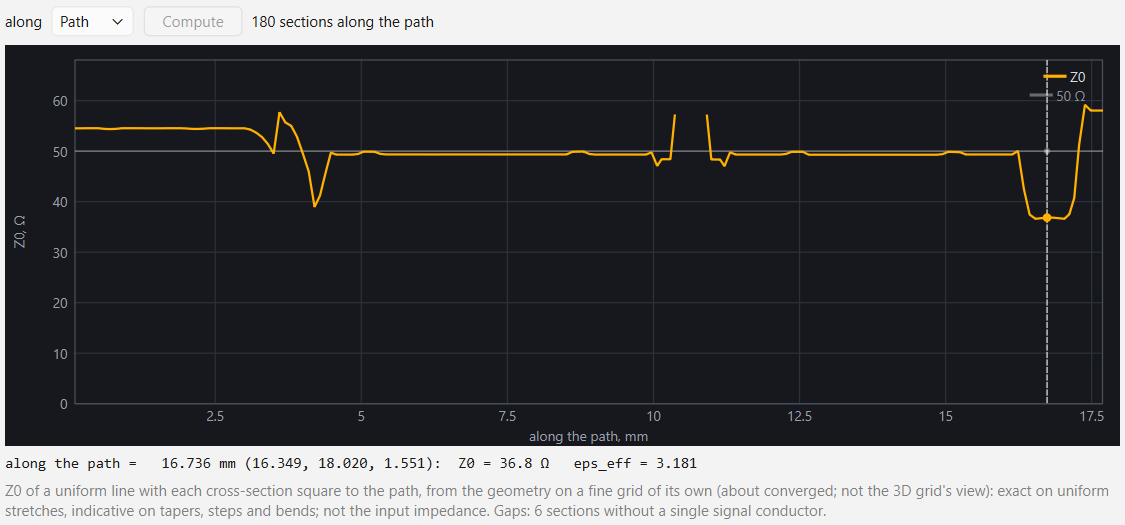
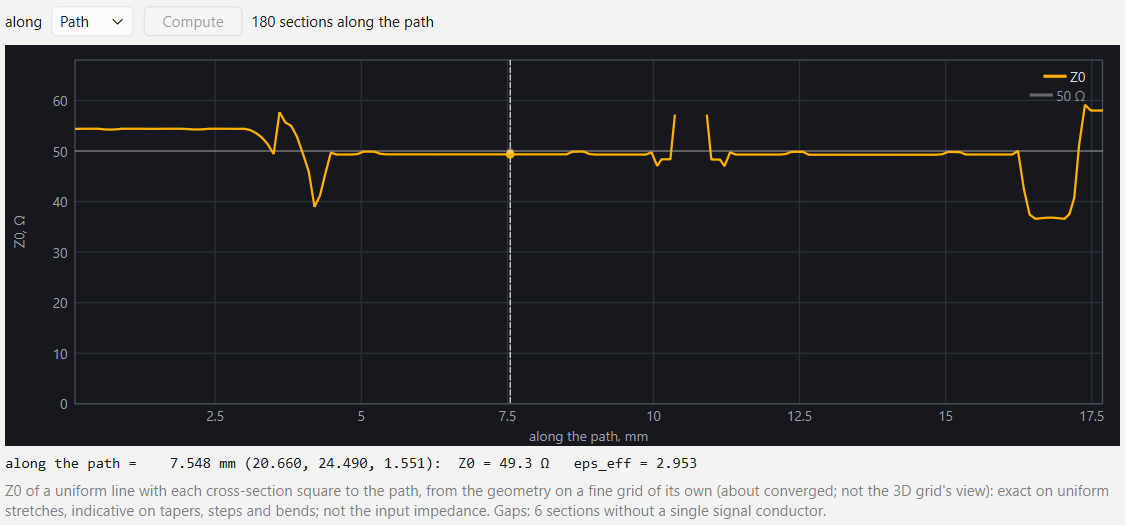
customcst: Z0 path sections span the model's height; section window in 3D
- The path's window is cut only across the path and along it, no longer in
  height: cut there, an SMA's coax above the board lost its shield's top
  (59 Ohm for 49) and the answer moved with the plane's height.
  check_path_profile: the plane high above the board reads the same Z0.
- The section window (half_width either side, the model's height) is drawn
  in 3D from two points on, at the path's start, and follows the profile
  window's marker.
- A note under Z0 path: half width >= half the widest part (a connector:
  its legs); 2 mm on an SMA launch read 54.5 Ohm for 49.2.
- Docs: the justswitch screenshot with the window.

diff --git a/customcst/view/geometry_view.py b/customcst/view/geometry_view.py
@@ -41,8 +41,11 @@
 #   - a double click on a point deletes it;
 #   - Shift + click near a segment inserts a point there;
 #   - on_path_changed(points) is called after every edit (m, in-plane).
-# set_path_section marks the cross-section the profile window reads: a
-# green bar across the path. In path mode the path's plane is shown over
+# The section window (set_path_section): what one cross-section of the
+# path profile takes in, a translucent green rectangle square to the path,
+# half_width to either side of it and over the model's whole height. Shown
+# with two points or more: at the path's start, or at the section under
+# the profile window's marker. In path mode the path's plane is shown over
 # the model's extent, translucent blue like the reference planes (through
 # the bodies: on a copper face it would z-fight).
 
@@ -95,7 +98,8 @@ PICK_COLORS = ((1.0, 0.85, 0.1, 1.0), (0.2, 0.9, 1.0, 1.0))   # points A, B; bla
 PICK_LINE_COLOR = (1.0, 1.0, 1.0, 0.9)
 PATH_COLOR = (1.0, 0.45, 0.1, 1.0)                # the Z0 path: orange
 PATH_START_COLOR = (1.0, 0.9, 0.2, 1.0)           # its first point
-PATH_SECTION_COLOR = (0.3, 1.0, 0.4, 1.0)         # the profile's section across it
+PATH_SECTION_COLOR = (0.3, 1.0, 0.4, 1.0)         # the section window's edge
+PATH_SECTION_FILL = (0.3, 1.0, 0.4, 0.15)         # and its fill
 PATH_PLANE_FILL = (0.05, 0.15, 0.7, 0.25)         # the path's plane in path mode
 PATH_PLANE_EDGE = REFERENCE_EDGE
 PATH_PX = 8                 # a click this close to a path point or segment hits it
@@ -448,7 +452,12 @@ class GeometryView:
         self._press = None
 
         self.path_line = scene.visuals.Line(color=PATH_COLOR, width=2.0, parent=self.view.scene)
-        self.path_section = scene.visuals.Line(color=PATH_SECTION_COLOR, width=3.0, parent=self.view.scene)
+        self.path_section = scene.visuals.Line(color=PATH_SECTION_COLOR, width=2.0, connect="segments",
+                                               parent=self.view.scene)
+        self.path_section_fill = scene.visuals.Mesh(color=PATH_SECTION_FILL, parent=self.view.scene)
+        self.path_section_fill.set_gl_state("translucent", depth_test=False, cull_face=False)
+        self.path_section_fill.order = 21
+        self.path_section_fill.visible = False
         self.path_markers = scene.visuals.Markers(parent=self.view.scene)
         self.path_plane = scene.visuals.Mesh(color=PATH_PLANE_FILL, parent=self.view.scene)
         self.path_plane_edge = scene.visuals.Line(color=PATH_PLANE_EDGE, width=2.0, connect="segments",
@@ -465,6 +474,8 @@ class GeometryView:
         self._path = None               # (axis, plane coordinate mm, (n, 2) in-plane points mm)
         self._path_shown = False        # drawn outside path mode too
         self._path_drag = None          # index of the point being moved
+        self._path_half_width = 0.0     # mm
+        self._path_section = None       # (center mm, across unit) of the profile's section, None: the start
         self.on_path_changed = None     # callback((n, 2) points m)
 
         self._init_headlight()
@@ -591,15 +602,16 @@ class GeometryView:
     # Z0 path
     # =====================================================
 
-    def set_path(self, axis, at, points, shown=False):
+    def set_path(self, axis, at, points, shown=False, half_width=0.0):
         """
         The Z0 path: in the plane normal to `axis` (0..2) at `at` (m), (n, 2)
         in-plane points (m, the other two axes in order). shown: drawn
-        outside path mode too.
+        outside path mode too. half_width (m): the section window's.
         """
         self._path = (int(axis), float(at) / SCENE_UNIT,
                       np.asarray(points, dtype=float).reshape(-1, 2) / SCENE_UNIT)
         self._path_shown = bool(shown)
+        self._path_half_width = float(half_width) / SCENE_UNIT
         self._draw_path()
 
     def set_path_shown(self, on):
@@ -613,15 +625,11 @@ class GeometryView:
         self.view.camera.interactive = True
         self._draw_path()
 
-    def set_path_section(self, center=None, across=None, half_width=0.0):
-        """The profile's cross-section: a bar from center - half_width * across to + (m); None hides it."""
-        if center is None:
-            self.path_section.visible = False
-        else:
-            ends = (np.asarray(center) + np.outer([-half_width, half_width], across)) / SCENE_UNIT
-            self.path_section.set_data(pos=ends.astype(np.float32))
-            self.path_section.visible = True
-        self.canvas.update()
+    def set_path_section(self, center=None, across=None):
+        """The section window at the profile's section: its point on the path (m), the unit across; None: the start."""
+        self._path_section = None if center is None else (np.asarray(center, dtype=float) / SCENE_UNIT,
+                                                          np.asarray(across, dtype=float))
+        self._draw_path()
 
     def path_points(self):
         """(n, 2) in-plane points of the path (m)."""
@@ -646,10 +654,35 @@ class GeometryView:
         if self.path_markers.visible:
             colors = np.array([PATH_START_COLOR] + [PATH_COLOR] * (len(points) - 1))
             self.path_markers.set_data(world, size=9, edge_width=1.5, face_color=colors, edge_color=(0, 0, 0, 1))
-        if not shown:
-            self.path_section.visible = False
+        self._draw_path_section(shown and len(points) >= 2)
         self._draw_path_plane()
         self.canvas.update()
+
+    def _draw_path_section(self, on):
+        """The section window: half_width across the path either side, the model's height."""
+        on = on and self._path_half_width > 0
+        self.path_section.visible = self.path_section_fill.visible = on
+        if not on:
+            return
+        axis, _, points = self._path
+        if self._path_section is not None:
+            center, across = self._path_section
+        else:
+            ends = self._path_world(points[:2])
+            along = ends[1] - ends[0]
+            normal = np.zeros(3)
+            normal[axis] = 1.0
+            across = np.cross(normal, along) / max(np.linalg.norm(along), 1e-12)
+            center = ends[0]
+        lo, hi = self._bounds
+        corners = np.empty((4, 3))
+        for n, (side, height) in enumerate(((-1, lo), (1, lo), (1, hi), (-1, hi))):
+            corners[n] = center + side * self._path_half_width * across
+            corners[n, axis] = height[axis]
+        corners = corners.astype(np.float32)
+        self.path_section_fill.set_data(vertices=corners, faces=np.array([[0, 1, 2], [0, 2, 3]], np.uint32),
+                                        color=PATH_SECTION_FILL)
+        self.path_section.set_data(pos=corners[[0, 1, 1, 2, 2, 3, 3, 0]])
 
     def _draw_path_plane(self):
         """In path mode: the path's plane over the model's extent (5 % margin)."""

diff --git a/customcst/solver/path_profile.py b/customcst/solver/path_profile.py
@@ -30,13 +30,13 @@
 #     hold the trace and its gaps, narrow enough not to cut a neighboring
 #     line: a conductor on the path's net cut by the side reads as ground;
 #   - a window rides along the path: each segment's grid and
-#     discretization cover only the box half_width across, half_width
-#     above and below the plane and half_width beyond its ends (bodies
-#     outside it are dropped, the slanted refinement looks only inside;
-#     build_grid's region). The whole rotated board took 2.3x as long, for
-#     the same Z0 within 0.4 Ohm (justswitch_v3). The box ends the section
-#     above and below too: the field of a line over its ground does not
-#     reach that far;
+#     discretization cover only the box half_width across and beyond its
+#     ends, over the model's whole height (bodies outside it are dropped,
+#     the slanted refinement looks only inside; build_grid's region). The
+#     whole rotated board took 2.3x as long, for the same Z0 within 0.4 Ohm
+#     (justswitch_v3). Cut in height too (half_width above and below the
+#     plane) it was 30 % faster again, but cut an SMA's coax shield above
+#     the board open: 59 Ohm for 49, and the answer moved with the plane;
 #   - a section whose discretization (and nets) equals the previous one's
 #     on the segment (a uniform run) takes its answer without a solve;
 #   - what joins out of the plane counts as in the axis profile: each node
@@ -157,8 +157,8 @@ def path_profile(geometry, project, path, vias=(), nets=None, progress=None):
         a0, a1 = float(rotation[2] @ p0), float(rotation[2] @ p1)
         s_c, w_at = float(rotation[0] @ p0), float(rotation[1] @ p0)
         reach = path.half_width
-        region = (np.array([s_c - reach, w_at - reach, a0 - reach]),
-                  np.array([s_c + reach, w_at + reach, a1 + reach]))
+        region = (np.array([s_c - reach, -np.inf, a0 - reach]),     # the whole height
+                  np.array([s_c + reach, np.inf, a1 + reach]))
         frame = Geometry(_inside([rotated_body(b, rotation) for b in geometry.bodies], region),
                          geometry.source)
         frame_vias = _inside([rotated_body(b, rotation) for b in vias], region)

diff --git a/customcst/view/main_window.py b/customcst/view/main_window.py
@@ -1320,7 +1320,7 @@ class MainWindow(QMainWindow):
         profile = self.profile_window.profile
         axis = profile.axis
         if axis < 0:
-            self.view.set_path_section(profile.points[index], profile.across[index], profile.half_width)
+            self.view.set_path_section(profile.points[index], profile.across[index])
             return
         coordinate = profile.sections[index].coordinate
         if self.mesh is None or not self.mesh.ok:
@@ -1355,7 +1355,7 @@ class MainWindow(QMainWindow):
             return
         self.view.set_path(UP_AXES.index(z0path["axis"]), z0path["at"] * MM,
                            np.asarray(z0path["points"], dtype=float).reshape(-1, 2) * MM,
-                           shown=self._path_on_profile())
+                           shown=self._path_on_profile(), half_width=z0path["half_width"] * MM)
         window = self.profile_window
         if not (self._path_on_profile() and window.profile is not None and window.profile.sections):
             self.view.set_path_section(None)
@@ -1422,6 +1422,12 @@ class MainWindow(QMainWindow):
         row.setData(0, Qt.UserRole, ("info", "z0path", None))
         row.setForeground(1, QColor("#2a2"))
         row.setToolTip(1, f"({u}, {v}) mm: " + ", ".join(f"({p[0]:g}, {p[1]:g})" for p in points))
+        note = self._note_row(section, "z0path", "half width ≥ half the widest part (connector: its legs)",
+                              "#888")
+        note.setToolTip(0, "Each cross-section spans the half width to either side of the path. What its "
+                           "side cuts counts as ground, but a ground beyond it is left out and Z0 reads "
+                           "high (an SMA launch with 2 mm: 54.5 Ω for 49.2). Not wider than needed: a "
+                           "neighboring line inside it would be a second conductor.")
         section.setExpanded(True)
         self.tree.blockSignals(False)
 

diff --git a/customcst/checks/check_path_profile.py b/customcst/checks/check_path_profile.py
@@ -13,6 +13,10 @@
 #   - its profile along x cuts it obliquely (1 / cos 30 wider): Z0 low by
 #     more than 5 %;
 #   - sections at most SECTION_STEP apart on a uniform run;
+#   - the plane drawn high above the board (half_width over its height
+#     above the ground) reads the same Z0: the section spans the model's
+#     height whatever the plane (cut in height, an SMA's coax above a
+#     board lost its shield);
 #   - a path with a vertex (the turned line, then back along x) gives
 #     sections on both segments, none at the vertex, coordinates growing
 #     along the path.
@@ -111,6 +115,12 @@ def main():
         check("straight line: the path profile reads the converged Z0",
               len(z) > 5 and abs(np.median(z) / reference - 1) < 0.015,
               f"{np.median(z):.2f} Ω vs {reference:.2f} ± {converged.estimate[1]:.2f} Ω converged")
+        high = line_path([(-2, 0), (2, 0)])
+        high.at += 1.5 * HALF_WIDTH
+        z_high = finite(path_profile(g, project, high, nets=nets))
+        check("the plane high above the board reads the same Z0",
+              len(z_high) > 5 and abs(np.median(z_high) / np.median(z) - 1) < 0.002,
+              f"{np.median(z_high):.2f} Ω at {high.at / MM:.2f} mm vs {np.median(z):.2f} Ω")
         gaps = np.diff(straight.coordinates)
         check("sections at most SECTION_STEP apart", gaps.max() <= SECTION_STEP * 1.0001,
               f"{len(straight.sections)} sections over 4 mm, largest gap {gaps.max() / MM:.3f} mm")

diff --git a/customcst/project/project_file.py b/customcst/project/project_file.py
@@ -81,8 +81,9 @@ Z0PATH_PARAMS = (
     Param("at", "plane at", 0.0, unit="mm", tooltip="The plane's coordinate along its axis"),
     Param("half_width", "section half width", 2.0, minimum=0.05, unit="mm",
           tooltip="How far each cross-section reaches to either side of the path: wider than "
-                  "the trace and its gaps, narrower than the distance to the next line "
-                  "(also above and below the plane: keep the ground planes inside)"),
+                  "the trace and its gaps, narrower than the distance to the next line. "
+                  "It must reach the ground: at a connector, its legs (half the connector's "
+                  "width or a bit more)"),
 )
 
 

diff --git a/customcst/ARCHITECTURE.md b/customcst/ARCHITECTURE.md
@@ -474,8 +474,9 @@ clicks in the model, and its cross-sections are square to every segment.
 
 The justswitch board (KiCad): the path from the connector pin, around the
 bends and over the series capacitor to the switch pin, in orange; the
-path's plane (the top copper) in translucent blue; the green bar is the
-section under the profile's marker, in the narrowed trace at the switch.
+path's plane (the top copper) in translucent blue; in green the section
+window under the profile's marker (half_width 2 mm to either side, the
+model's whole height), on the first diagonal at 7.5 mm.
 Its profile: the straight runs and the diagonals at 49.3 Ohm, the
 narrowing at the switch 36.8 Ohm, the switch pad 58 Ohm; the gap is the
 capacitor (its metal joins the ground elsewhere: no signal there).
@@ -501,8 +502,11 @@ capacitor (its metal joins the ground elsewhere: no signal there).
   until the mesh (or the path) changes; Compute computes it, with a
   progress bar (along the path first each segment's grid and
   discretization, then the sections done of all). The wheel
-  over a path profile marks its section in 3D (a green bar across the
-  path).
+  over a path profile moves the section window in 3D to its
+  section: a translucent green rectangle square to the path, half_width
+  to either side and the model's whole height, i.e. what one section takes
+  in (shown from two points on, at the path's start until a profile's
+  marker moves it).
 - Each segment is solved in a frame of its own (the model rotated so the
   segment runs along the third axis) on a fine grid of its own
   (CELLS_PER_FEATURE 16, the merge distance scaled), one discretization
@@ -510,21 +514,26 @@ capacitor (its metal joins the ground elsewhere: no signal there).
   least 0.02 mm and at most 0.1 mm apart, none at a vertex. Each reaches
   `half_width` to either side; the conductors cut by its sides are ground.
   A window rides along the path: each segment is gridded and discretized
-  only in the box `half_width` across, above and below the plane and
-  beyond its ends (`build_grid(..., region=...)`: the domain ends there,
+  only in the box `half_width` across and beyond its ends, over the
+  model's whole height (cut in height too, an SMA's coax above the board
+  lost its shield's top: 59 Ohm for 49) (`build_grid(..., region=...)`: the domain ends there,
   the slanted refinement looks only inside; bodies outside are dropped).
   A section equal to the previous one (the same edges and nets, a uniform
   run) reuses its answer.
   The nodes take the 3D nets of the nearest nodes of the 3D grid, rotated
   back. So it reads about the converged Z0, not the 3D grid's view.
+- `half_width` must reach the ground: what the window's side cuts is
+  ground, but a side in the gap between the signal and its ground leaves
+  that ground out. On test_prep's SMA launch (legs ~3.25 mm from the pin)
+  2 mm read 54.5 Ohm for 49.2 (the plane's convergence); 4 mm reads 49.7.
 - Speed (idle CPU), justswitch_v3 (KiCad board, 5 segments, 18 mm, 180
   sections): 147 s on the whole rotated board; 64 s with the window (Z0
   within 0.4 Ohm, mean 0.007); 36 s with the discretization on numba
-  (the same profile bit for bit): the solves 16 s (157 of 180 sections,
-  two SuperLU solves of ~64 k nodes each, ~0.05 s), the discretization
-  14 s (now mostly the triangle-line crossings, numpy), the grids 2 s.
-  Threads do not help the solves (the GIL); a loaded CPU (an FDTD run
-  beside it) is several times slower.
+  (the same profile bit for bit); 51 s with the window over the whole
+  height (within 0.13 Ohm): the solves (two SuperLU solves a section,
+  ~0.05-0.1 s each), the discretization (now mostly the triangle-line
+  crossings, numpy), the grids 2 s. Threads do not help the solves (the
+  GIL); a loaded CPU (an FDTD run beside it) is several times slower.
 - `check_path_profile`: a microstrip, straight and turned 30 degrees: the
   path reads the converged Z0 (within 1.5 %), sections at most 0.1 mm
   apart, flat along the turned line, where the axis profile cuts it > 5 %

diff --git a/customcst/README.md b/customcst/README.md
@@ -91,7 +91,8 @@ It shows which part of the feed is off 50 Ω.
 **The Z0 profile along a drawn path**: click the path along the trace in
 the 3D view (the plane in blue), and every cross-section is cut square to
 it, through the bends and diagonals. Here a KiCad board from the
-connector to the switch, the marker in the narrowing at the switch pin.
+connector to the switch; the green window is what the section under the
+profile's marker takes in.
 
 ![Z0 path](docs/images/z0_path.png)
 
